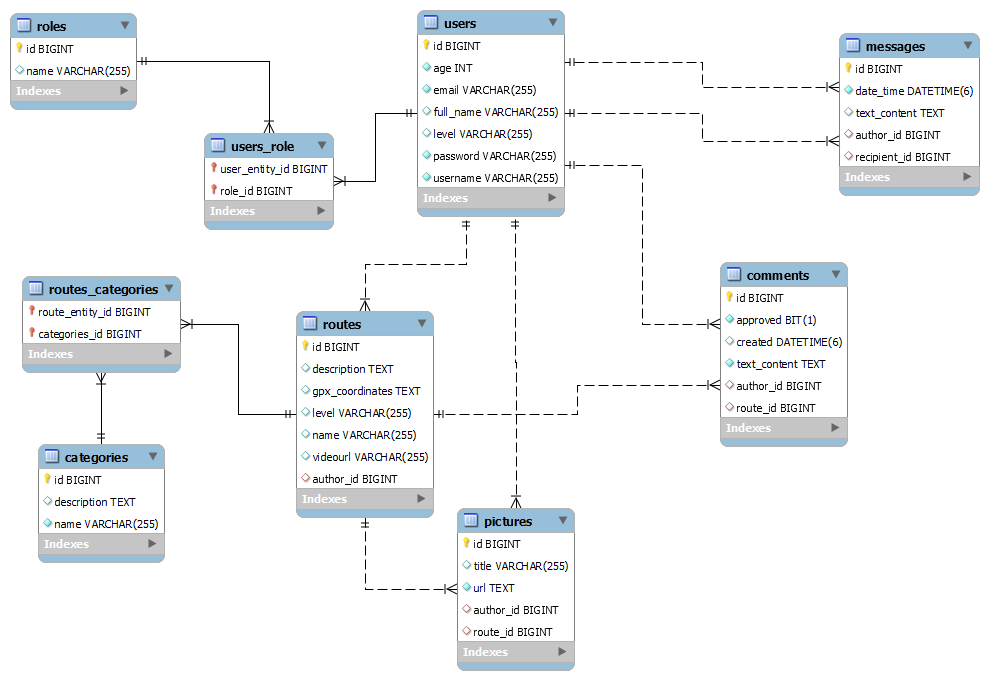
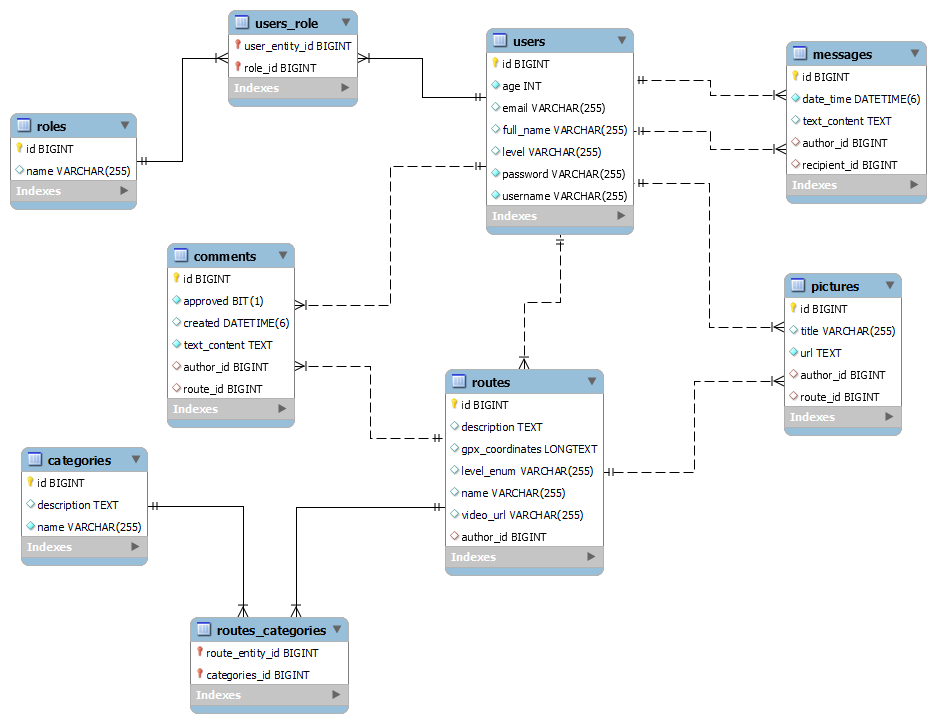
added data into the database

diff --git a/src/main/resources/templates/index.html b/src/main/resources/templates/index.html
@@ -1,5 +1,4 @@
-<html lang="en"
-      xmlns:th="http://www.thymeleaf.org">
+<html lang="en" xmlns:th="http://www.thymeleaf.org">
 
 <head>
     <meta charset="UTF-8"/>
@@ -9,46 +8,23 @@
     <link rel="stylesheet" href="/css/styles.css">
     <link rel="stylesheet" href="/css/mobile.css">
     <link rel="stylesheet" href="https://use.fontawesome.com/releases/v5.15.4/css/all.css"
-          integrity="sha384-DyZ88mC6Up2uqS4h/KRgHuoeGwBcD4Ng9SiP4dIRy0EXTlnuz47vAwmeGwVChigm" crossorigin="anonymous">
-    <link rel="stylesheet" href="https://unpkg.com/leaflet@1.4.0/dist/leaflet.css"
+          integrity="sha384-DyZ88mC6Up2uqS4h/KRgHuoeGwBcD4Ng9SiP4dIRy0EXTlnuz47vAwmeGwVChigm"
+          crossorigin="anonymous">
+    <link rel="stylesheet"
+          href="https://unpkg.com/leaflet@1.4.0/dist/leaflet.css"
           integrity="sha512-puBpdR0798OZvTTbP4A8Ix/l+A4dHDD0DGqYW6RQ+9jxkRFclaxxQb/SJAWZfWAkuyeQUytO7+7N4QKrDh+drA=="
           crossorigin=""/>
     <script src="https://unpkg.com/leaflet@1.4.0/dist/leaflet.js"
             integrity="sha512-QVftwZFqvtRNi0ZyCtsznlKSWOStnDORoefr1enyq5mVL4tmKB3S/EnC3rRJcxCPavG10IcrVGSmPh6Qw5lwrg=="
-            crossorigin=""></script>
+            crossorigin="">
+
+    </script>
 </head>
 <body>
 <div class="wrapper">
     <!-- Navigation -->
-    <header>
-    <nav class="main-nav">
-        <ul>
-                <li>
-                    <a href="/">Home</a>
-                </li>
-                <li>
-                    <a href="/">Login</a>
-                </li>
-                <li>
-                    <a href="/">Register</a>
-                </li>
-                <li>
-                    <a href="/">About</a>
-                </li>
-				<li>
-                    <a href="/">Add new route</a>
-                </li>
-                <li>
-                    <a href="/">Profile</a>
-                </li>
-                <li>
-                    <a href="/">Admin</a>
-                </li>
-                <li>
-                    <a href="/">Logout</a>
-                </li>
-        </ul>
-    </nav>
+    <header th:include="~{fragments/navbar.html}">
+
 </header>
     <!-- Top Container -->
     <section class="top-container">

diff --git a/src/main/resources/fragments/navbar.html b/src/main/resources/fragments/navbar.html
@@ -1,0 +1,32 @@
+<nav class="main-nav">
+    <ul>
+        <th:block th:if="${@userSession.getId() > 0}">
+            <li>
+                <a href="/">Add new route</a>
+            </li>
+            <li>
+                <a href="/">Profile</a>
+            </li>
+            <li>
+                <a href="/">Admin</a>
+            </li>
+            <li>
+                <a href="/">Logout</a>
+            </li>
+        </th:block>
+        <th:block th:unless="${@userSession.getId() > 0}">
+            <li>
+                <a href="/">Home</a>
+            </li>
+            <li>
+                <a href="/">Login</a>
+            </li>
+            <li>
+                <a href="/">Register</a>
+            </li>
+            <li>
+                <a href="/">About</a>
+            </li>
+        </th:block>
+    </ul>
+</nav>

diff --git a/src/main/java/bg/softuni/pathfinder/model/entity/RouteEntity.java b/src/main/java/bg/softuni/pathfinder/model/entity/RouteEntity.java
@@ -10,10 +10,12 @@ import java.util.Set;
 @Table(name = "routes")
 public class RouteEntity extends BaseEntity {
 
-    @Column(columnDefinition = "text")
+    @Lob
+    @Column(name = "gpx_coordinates")
     private String gpxCoordinates;
 
     @Enumerated(EnumType.STRING)
+    @Column(name = "level_enum")
     private LevelEnum level;
 
     private String name;
@@ -24,6 +26,7 @@ public class RouteEntity extends BaseEntity {
     @ManyToOne
     private UserEntity author;
 
+    @Column(name = "video_url")
     private String videoURL;
 
     @OneToMany(targetEntity = CommentsEntity.class, mappedBy = "route", cascade = CascadeType.ALL)

diff --git a/src/main/java/bg/softuni/pathfinder/session/UserSession.java b/src/main/java/bg/softuni/pathfinder/session/UserSession.java
@@ -1,0 +1,23 @@
+package bg.softuni.pathfinder.session;
+
+import org.springframework.stereotype.Component;
+import org.springframework.web.context.annotation.SessionScope;
+
+@Component
+@SessionScope
+public class UserSession {
+
+    private long id;
+
+    public UserSession() {
+    }
+
+    public long getId() {
+        return id;
+    }
+
+    public UserSession setId(long id) {
+        this.id = id;
+        return this;
+    }
+}

diff --git a/src/main/java/bg/softuni/pathfinder/model/entity/MessageEntity.java b/src/main/java/bg/softuni/pathfinder/model/entity/MessageEntity.java
@@ -13,7 +13,7 @@ public class MessageEntity extends BaseEntity{
     @Column(name = "date_time", nullable = false)
     private LocalDateTime dateTime;
 
-    @Column(columnDefinition = "text")
+    @Column(columnDefinition = "text", name = "text_content")
     private String textContent;
 
     @ManyToOne

diff --git a/src/main/java/bg/softuni/pathfinder/model/entity/CommentsEntity.java b/src/main/java/bg/softuni/pathfinder/model/entity/CommentsEntity.java
@@ -14,7 +14,7 @@ public class CommentsEntity extends BaseEntity{
 
     private LocalDateTime created;
 
-    @Column(columnDefinition = "text", nullable = false)
+    @Column(columnDefinition = "text", nullable = false, name = "text_content")
     private String textContent;
 
     @ManyToOne

diff --git a/src/main/java/bg/softuni/pathfinder/model/entity/UserEntity.java b/src/main/java/bg/softuni/pathfinder/model/entity/UserEntity.java
@@ -15,7 +15,7 @@ public class UserEntity extends BaseEntity{
     @Column(nullable = false)
     private String password;
 
-    @Column(nullable = false, unique = true)
+    @Column(unique = true)
     private String email;
 
     @Column(name = "full_name")

diff --git a/src/main/java/bg/softuni/pathfinder/model/enums/RoleEnum.java b/src/main/java/bg/softuni/pathfinder/model/enums/RoleEnum.java
@@ -1,4 +1,4 @@
-package bg.softuni.pathfinder.model.entity;
+package bg.softuni.pathfinder.model.enums;
 
 public enum RoleEnum {
     USER, MODERATOR, ADMIN;

diff --git a/src/main/java/bg/softuni/pathfinder/model/entity/RoleEntity.java b/src/main/java/bg/softuni/pathfinder/model/entity/RoleEntity.java
@@ -1,5 +1,7 @@
 package bg.softuni.pathfinder.model.entity;
 
+import bg.softuni.pathfinder.model.enums.RoleEnum;
+
 import javax.persistence.*;
 
 @Entity
